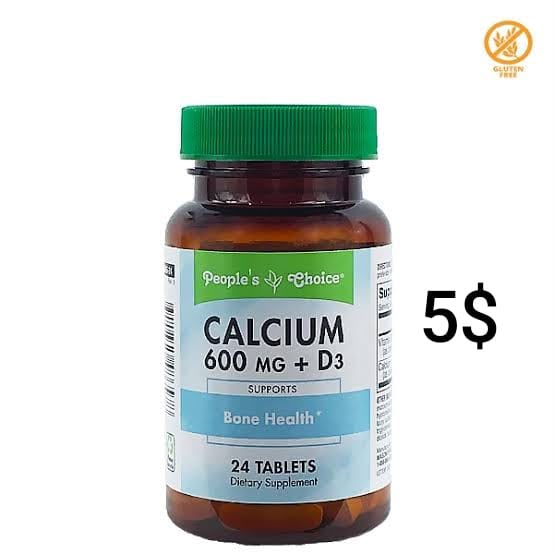
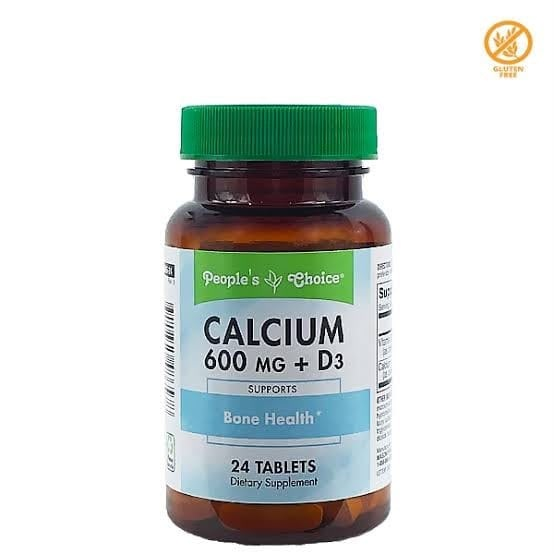
se elimino de las imagenes el precio y se cambio el numero de telefono al del encargado

Changed region(s): [[0.7671, 0.491, 0.9206, 0.6444]]

diff --git a/js/common.js b/js/common.js
@@ -65,7 +65,7 @@ window.TA = (function () {
 
   const DEFAULT_SETTINGS = {
     store: 'Importaciones Adriel',
-    whatsapp: '584247777965',
+    whatsapp: '584128540293',
     freeShipping: 100,
     shipCost: 8,
     comboQty: 2,
